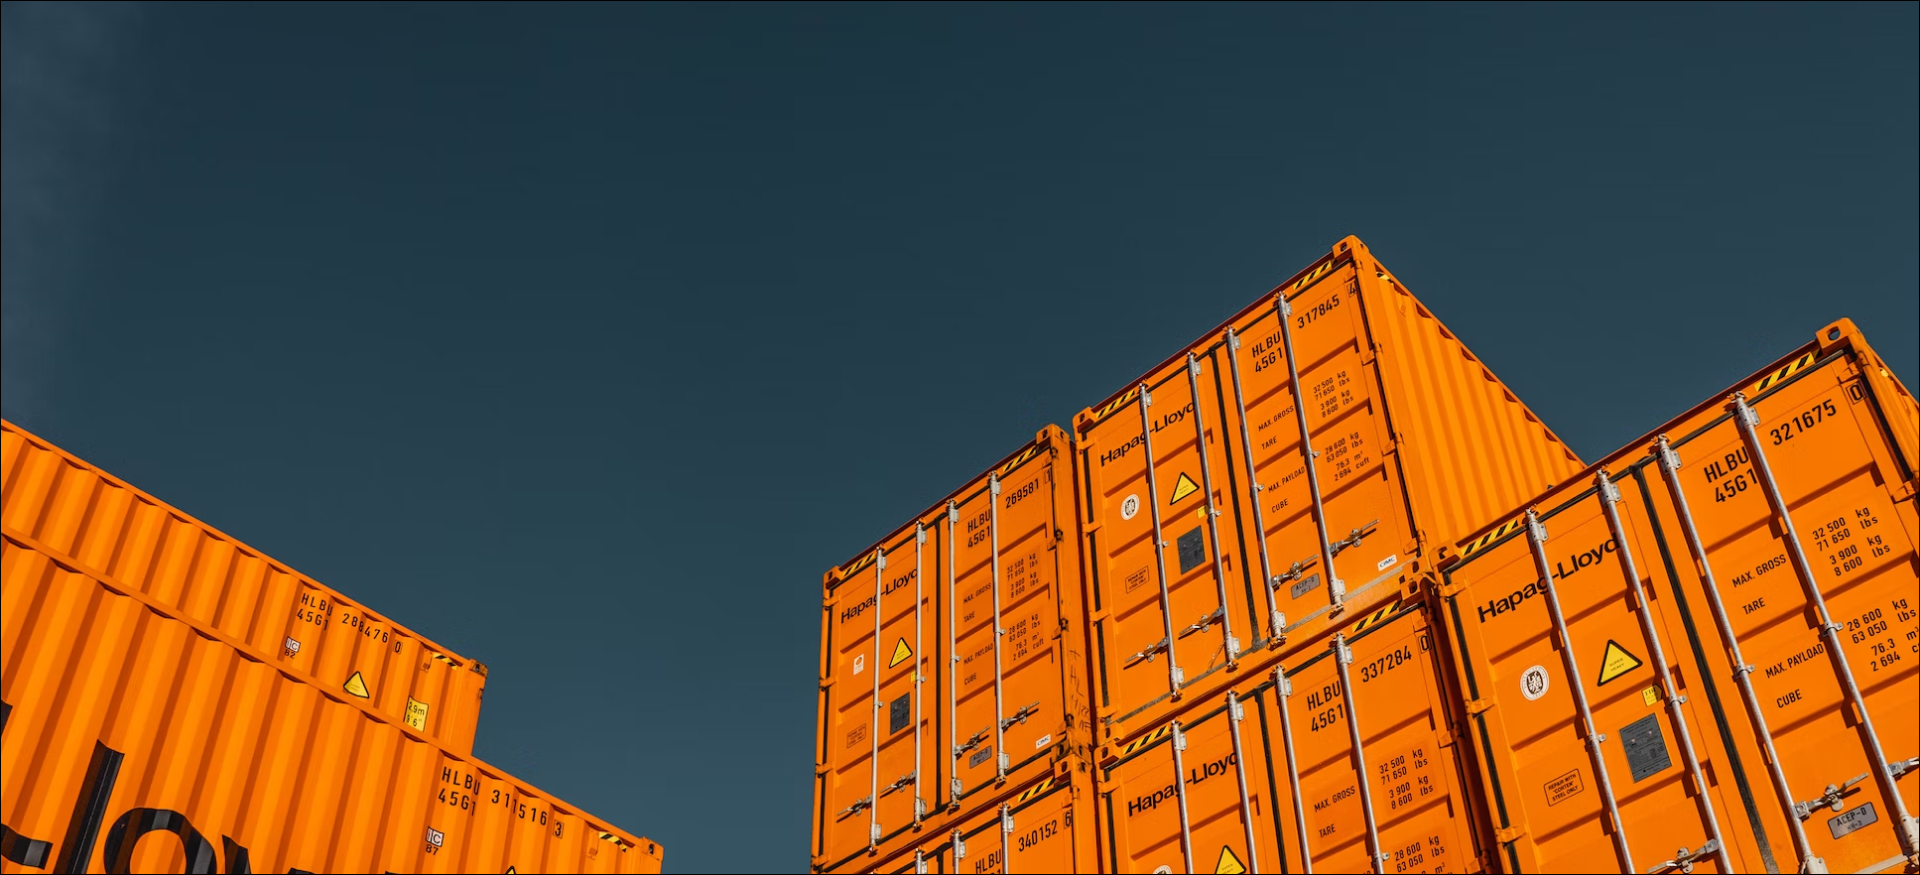
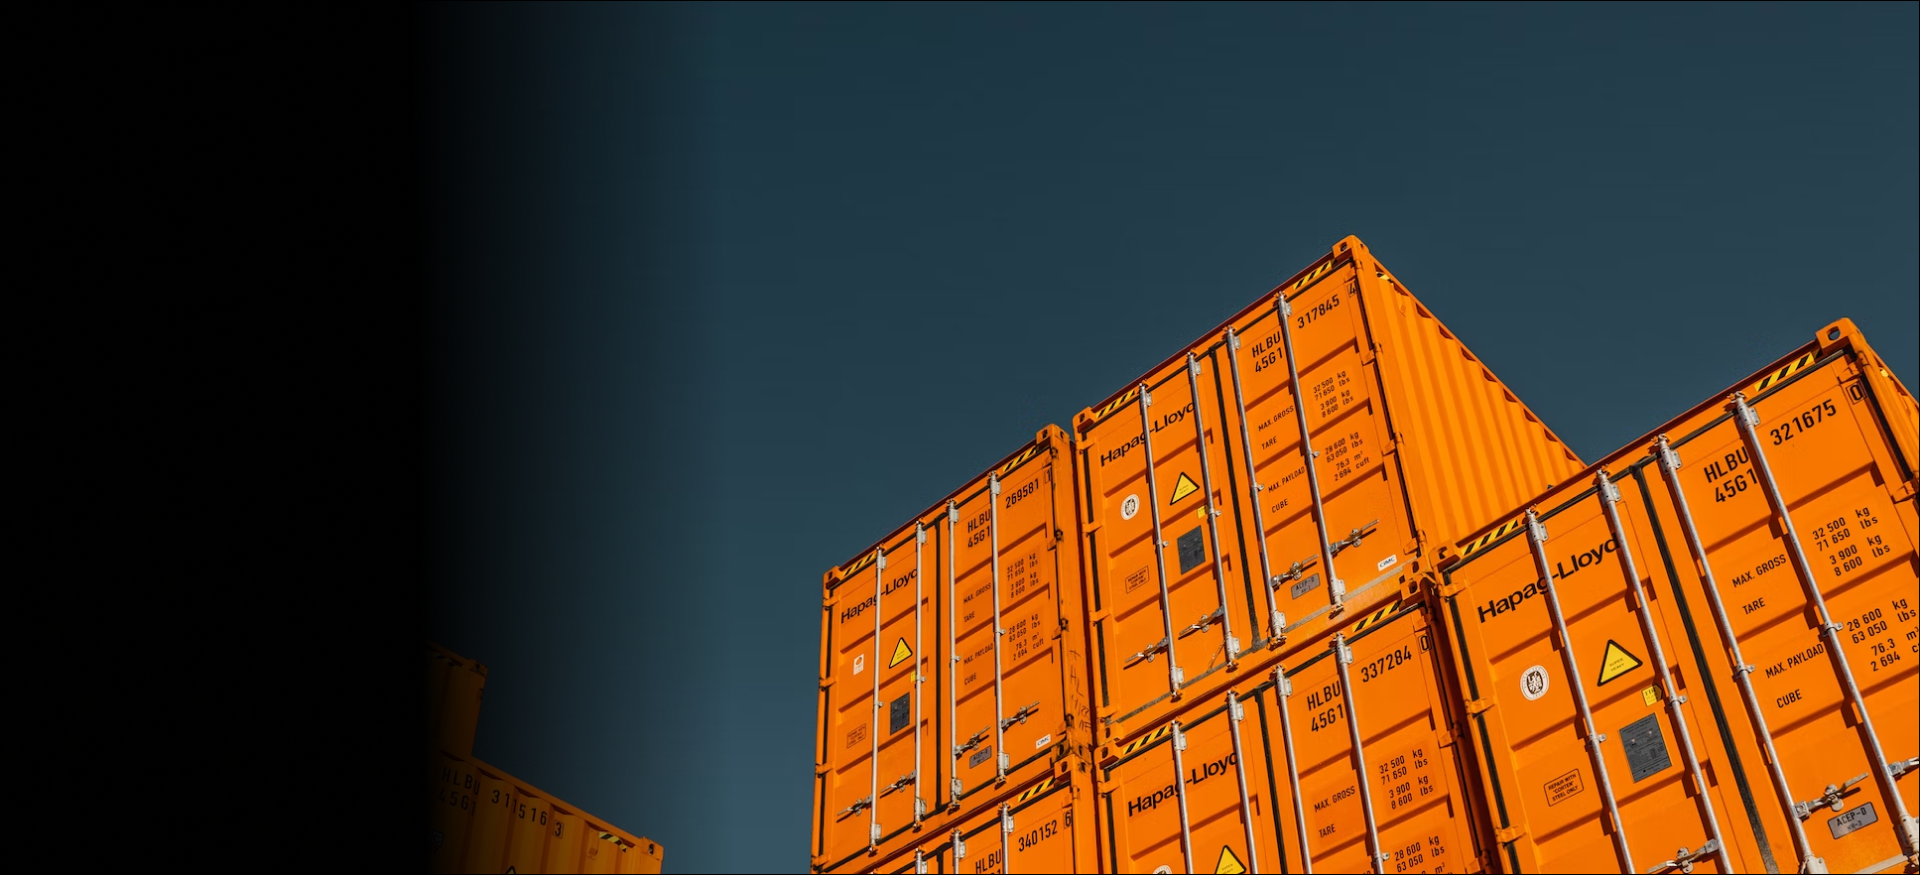
feat: add title

diff --git a/src/style.scss b/src/style.scss
@@ -8,6 +8,7 @@
 }
 $font-family: "inter", sans-serif;
 $color-oranges: #f57520;
+$color-oranges-hover: #a1511d;
 body {
   font-family: $font-family;
 }
@@ -36,8 +37,12 @@ body {
   color: $color-oranges !important;
 }
 .sea-container {
-  background: linear-gradient(88deg, #000 58.38%, rgba(0, 0, 0, 0) 100%),
-    url("/public/assets/image/1.png");
+  background: url("/public/assets/image/1.png");
+  background-size: cover; // или contain, в зависимости от ваших нужд
+  background-repeat: no-repeat; // предотвращает дублирование изображения
+}
+.btn {
+  --bs-btn-padding-x: 3.75rem;
 }
 .btn-order {
   border-radius: 0.62rem;
@@ -47,6 +52,11 @@ body {
   background: $color-oranges;
   --bs-btn-border-color: $color-oranges;
 }
+.btn:hover {
+  background-color: $color-oranges-hover;
+  border-color: $color-oranges-hover;
+}
+
 .span-phone {
   margin-right: auto;
   margin-left: 5rem;
@@ -58,4 +68,24 @@ body {
   color: #f57520;
 
   letter-spacing: 0.06rem;
+}
+.title-page {
+  padding: 5rem 1rem 15.2rem 2rem;
+}
+.title-text {
+  font-family: $font-family;
+  font-weight: 700;
+  font-size: 5.62rem;
+  line-height: 123%;
+  letter-spacing: 0.04em;
+  color: #fff;
+}
+.title-addition {
+  padding: 3rem 0 1.4rem 0;
+  font-family: $font-family;
+  font-weight: 400;
+  font-size: 1.5rem;
+  line-height: 160%;
+  letter-spacing: 0.04em;
+  color: #fff;
 }

diff --git a/src/index.html b/src/index.html
@@ -11,12 +11,35 @@
         <div class="row align-items-center">
           <div class="col-12"><header class="header"></header></div>
         </div>
+        <div class="row align-items-center">
+          <div class="col-6 title-page">
+            <div>
+              <h1 class="title-text">Морские контейнеры</h1>
+            </div>
+            <div>
+              <p class="title-addition">
+                Контейнеры в любой точке России: от 1 единицы, оптом и в
+                розницу, напрямую от поставщика
+              </p>
+            </div>
+            <div>
+              <form
+                class="container-fluid justify-content-start col-3 d-flex justify-content-start mx-0"
+              >
+                <button class="btn btn-primary btn-order" type="button">
+                  Заказать
+                </button>
+              </form>
+            </div>
+          </div>
+          <div class="col-6"></div>
+        </div>
       </div>
     </div>
     <main class="main">
       <div class="container">
         <div class="row align-items-center">
-          <div class="col-7">Column</div>
+          <div class="col-7"></div>
           <div class="col-5"></div>
         </div>
       </div>

diff --git a/webpack.config.js b/webpack.config.js
@@ -13,14 +13,15 @@ module.exports = {
     path: path.resolve(__dirname, "dist"),
     clean: true,
     assetModuleFilename: "assets/[hash][ext][query]",
+    publicPath: "/",
   },
   devServer: {
     port: 8080,
+    hot: true,
     open: true,
     static: {
       directory: path.join(__dirname, "dist"),
     },
-    historyApiFallback: true,
   },
   plugins: [
     new HtmlWebpackPlugin({
